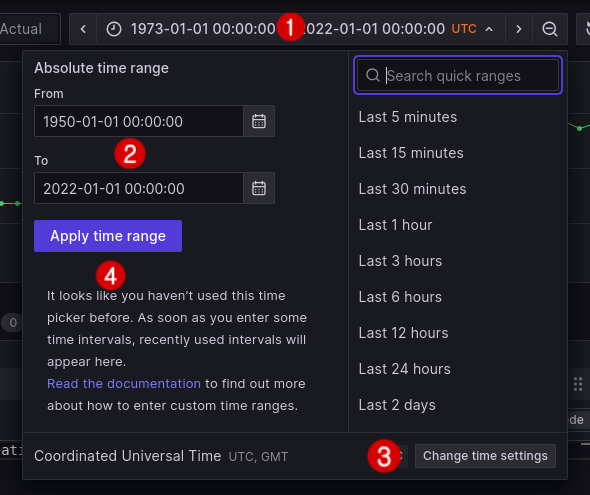
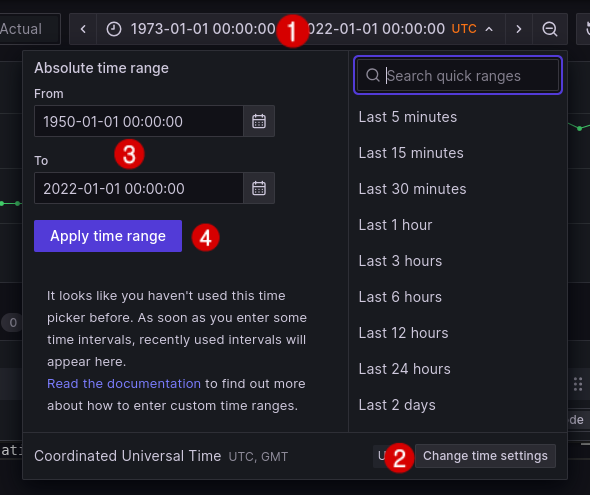
fixed the workflow

diff --git a/data-visualization/04-confgure-grafana/assignment.md b/data-visualization/04-confgure-grafana/assignment.md
@@ -72,20 +72,20 @@ However, our database contains data from 1950-2022, so we want Grafana to query 
 From the code editor, remove the part that says  `LIMIT 50`, and then click on `Run query`
 ![](../assets/grafana_edit_sql.png)
 
-Now Grafana is querying all of our data, but there is still one problem. We need to adjust the scale of our graph so we can see the output. Click on the time range above the graph and enter the following settings for the absolute time range:
+Now Grafana is querying all of our data, but there is still one problem. We need to adjust the scale of our graph so we can see the output. Click `Change time settings` and select `Coordinated Universal Time` from the drop-down box. Next, click on the time range above the graph and enter the following settings for the absolute time range:
 * From: `1950-01-01 00:00:00`
 * To: `2022-01-01 00:00:00`
 
-Next, click `Change time settings` and select `Coordinated Universal Time` from the drop-down box. Then click `Apply time range` to apply your selections.
+Then click `Apply time range` to apply your selections.
 ![](../assets/grafana_change_time.png)
 
 Now, you will see all of your data in the graph.
 ![](../assets/grafana_final_query_output.png)
 
-Enter a title for your graph and then click `save` to save your graph.
+Enter a title for your graph and then click `Save` to save your graph.
 ![](../assets/grafana_dashboard_save.png)
 
-Finally, when prompted, enter a name for your dashboard and click `save`.
+Finally, when prompted, enter a name for your dashboard and click `Save`.
 ![](../assets/grafana_dashboard_global_save.png)
 
 You will now see your data dashboard!
